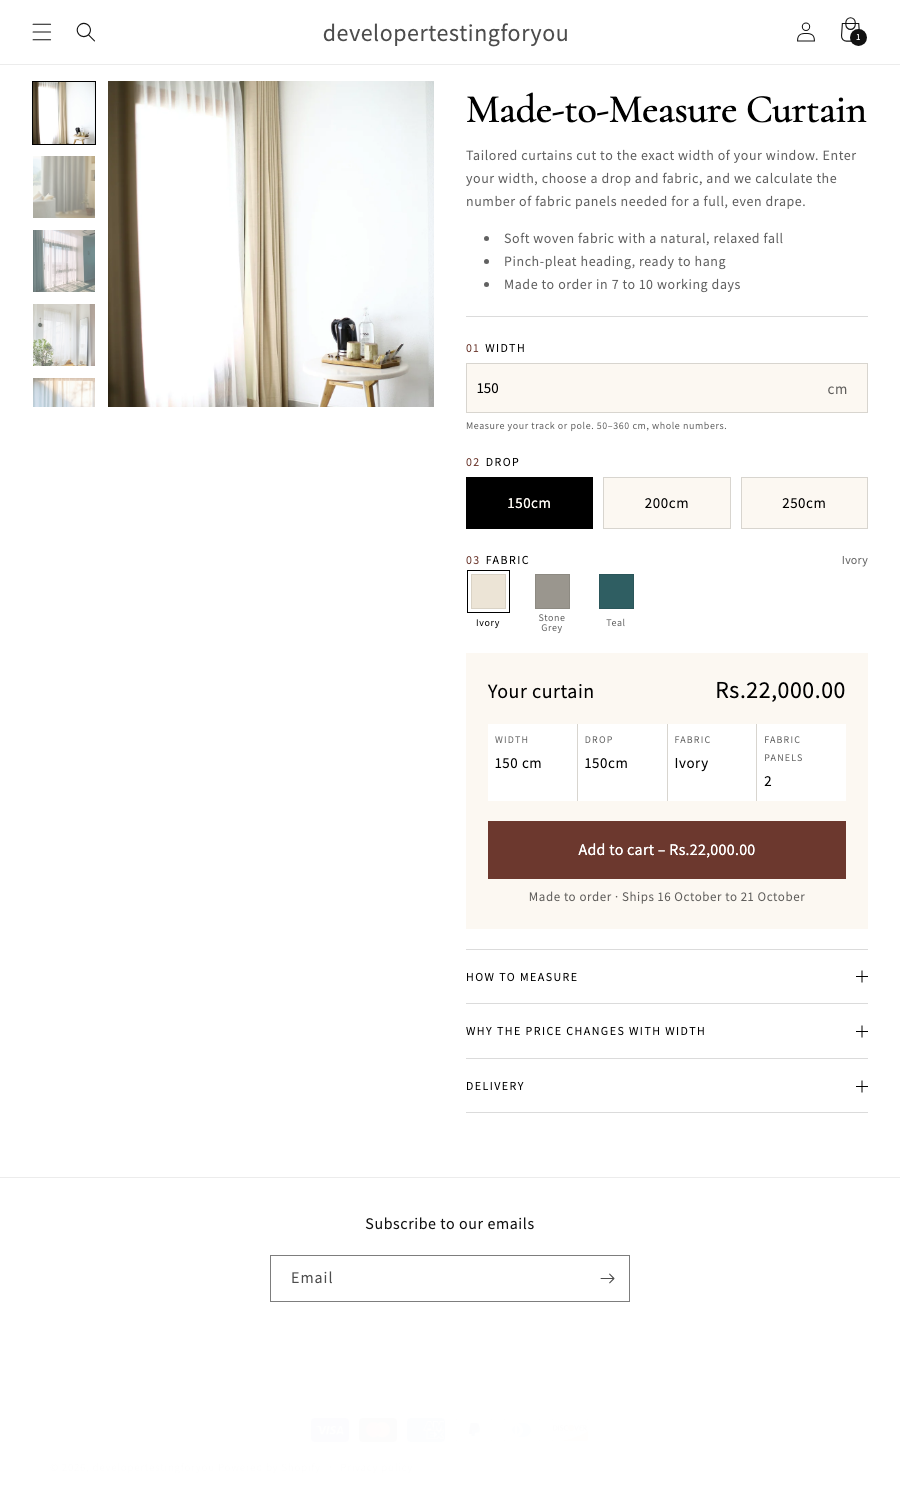
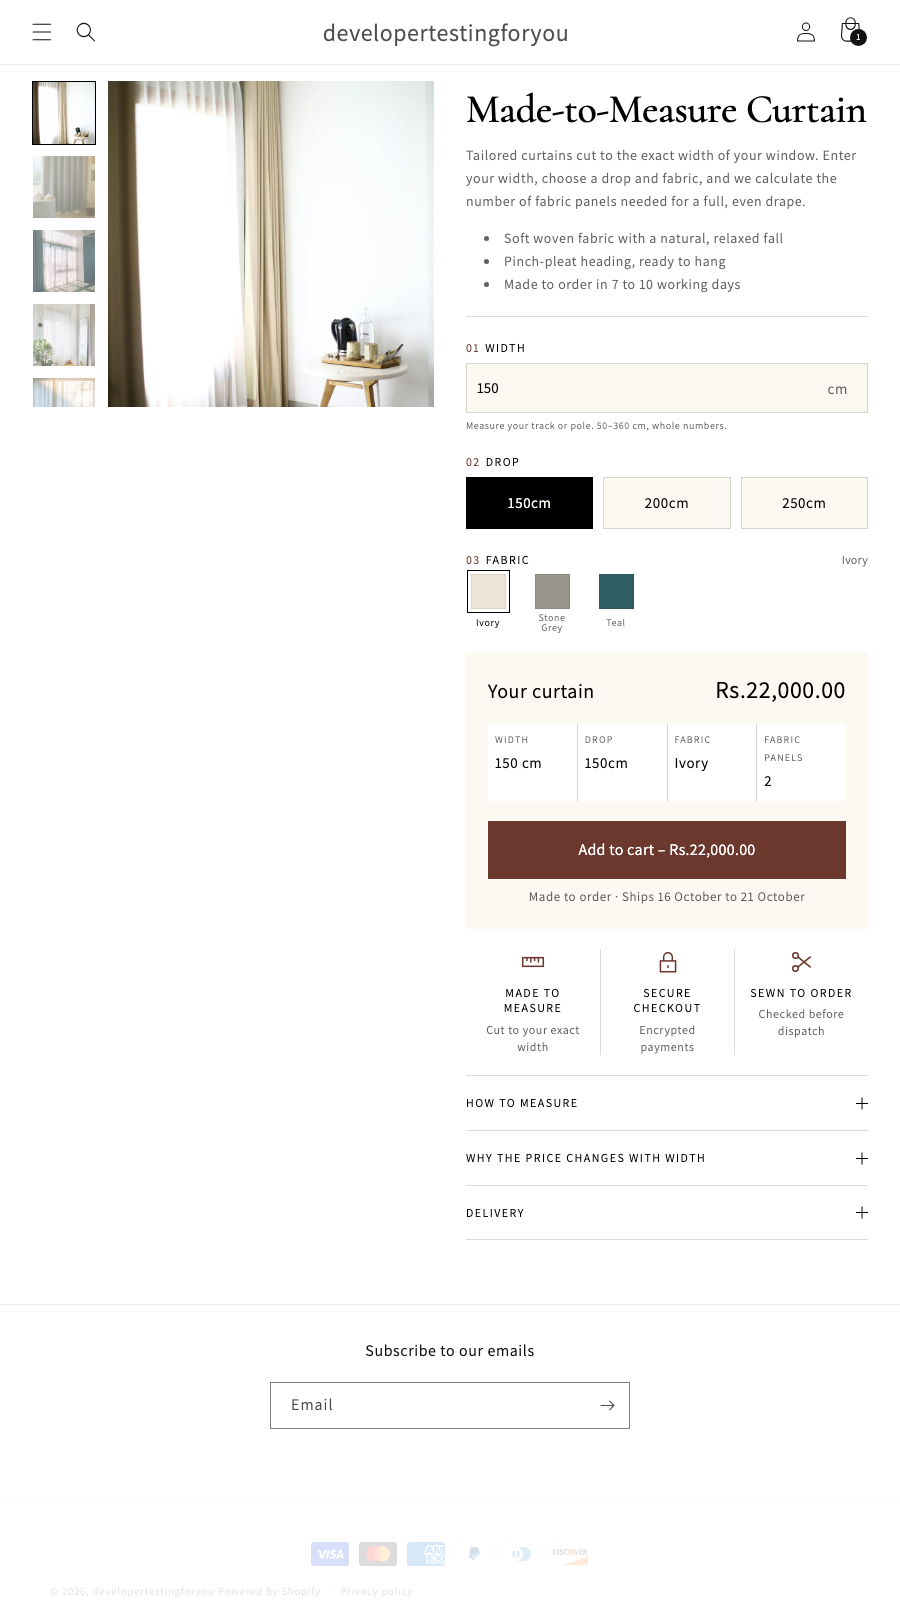
Add a trust badges block under the add to cart card
Three editable badges with line icons, placed between the add to cart
card and the collapsible rows.

diff --git a/assets/curtain-configurator.css b/assets/curtain-configurator.css
@@ -564,6 +564,50 @@
   text-align: center;
 }
 
+/* Trust badges */
+
+.cc__badges {
+  display: grid;
+  grid-auto-flow: column;
+  grid-auto-columns: minmax(0, 1fr);
+  margin: 0;
+  padding: 0;
+  list-style: none;
+}
+
+.cc__badge {
+  display: grid;
+  align-content: start;
+  justify-items: center;
+  gap: 0.6rem;
+  padding: 0 1rem;
+  text-align: center;
+}
+
+.cc__badge + .cc__badge {
+  border-left: 1px solid var(--cc-line);
+}
+
+.cc__badge-icon {
+  width: 2.6rem;
+  height: 2.6rem;
+  margin-bottom: 0.4rem;
+  color: var(--cc-accent);
+}
+
+.cc__badge-title {
+  font-size: 1.2rem;
+  line-height: 1.3;
+  letter-spacing: 0.12em;
+  text-transform: uppercase;
+}
+
+.cc__badge-text {
+  font-size: 1.2rem;
+  line-height: 1.4;
+  color: var(--cc-muted);
+}
+
 /* Collapsible rows */
 
 .cc__panel > .cc__row + .cc__row {
@@ -742,6 +786,14 @@
 
   .cc__swatches {
     gap: 1.4rem 1.6rem;
+  }
+
+  .cc__badge {
+    padding: 0 0.6rem;
+  }
+
+  .cc__badge-title {
+    letter-spacing: 0.06em;
   }
 
   /* Room for two lines, so the dates filled in by the script never push content down. */

diff --git a/README.md b/README.md
@@ -12,6 +12,7 @@ All pricing data lives in a metaobject. The theme code contains no width ranges 
 | --- | --- |
 | `sections/curtain-configurator.liquid` | The section: gallery, inputs, summary card, and the JSON config read from the metafield |
 | `snippets/curtain-swatch.liquid` | One fabric swatch radio, used by swatch blocks and by the fallback |
+| `snippets/curtain-trust-icon.liquid` | Line icons for the trust badges |
 | `assets/curtain-configurator.js` | The `<curtain-configurator>` custom element (vanilla ES2020, no libraries) |
 | `assets/curtain-configurator.css` | Styles, loaded only by this section |
 | `templates/product.curtain.json` | Product template with the configurator blocks and three collapsible rows |
@@ -226,6 +227,7 @@ Every part of the product column is its own block, so it can be reordered, remov
 | Fabric picker | Label | Shows the Fabric swatch blocks, or the Color values if there are none |
 | Fabric swatch | Color option value, swatch color, optional fabric image | One per color. The value must match the variant's Color value exactly |
 | Price and add to cart | Title, panel count visibility, note, delivery days, working days only | The summary card and button |
+| Trust badges | Icon, title and text for up to three badges | Sits under the add to cart card. A badge with an empty title is hidden |
 | Collapsible row | Heading, content, open by default | Add as many as needed. The template has three under the button, all closed |
 
 Collapsible rows slide open and closed, and only one stays open at a time. Opening a row closes any other open row. Selecting a row's block in the theme editor opens it.
@@ -246,7 +248,7 @@ The section only appears on product templates. It shows a setup notice in the ed
 
 ## Testing
 
-`tests/e2e/run.mjs` runs 49 checks against a live preview:
+`tests/e2e/run.mjs` runs 50 checks against a live preview:
 
 - **Rendering:** no Panels control on the page, and no Dawn product form.
 - **Pricing:** price and panel count at every tier boundary, from 50 to 360 cm.
@@ -255,6 +257,7 @@ The section only appears on product templates. It shows a setup notice in the ed
 - **Interaction:** color swaps the gallery image, and arrow keys move through the swatches.
 - **Layout:** thumbnails to the left of the main image, the main image filling the screen below the header, three collapsible rows under the button, zero layout shift, and no horizontal overflow at tablet and mobile widths.
 - **Interaction:** rows start closed and only one opens at a time, and the button curtain covers the button on hover.
+- **Trust badges:** three badges sit between the add to cart card and the rows.
 - **Cart:** the exact `/cart/add.js` payload, the drawer contents, the cart page contents, and the cart line read back from `/cart.js`.
 - **Errors:** a simulated 422 response and a simulated network failure.
 
